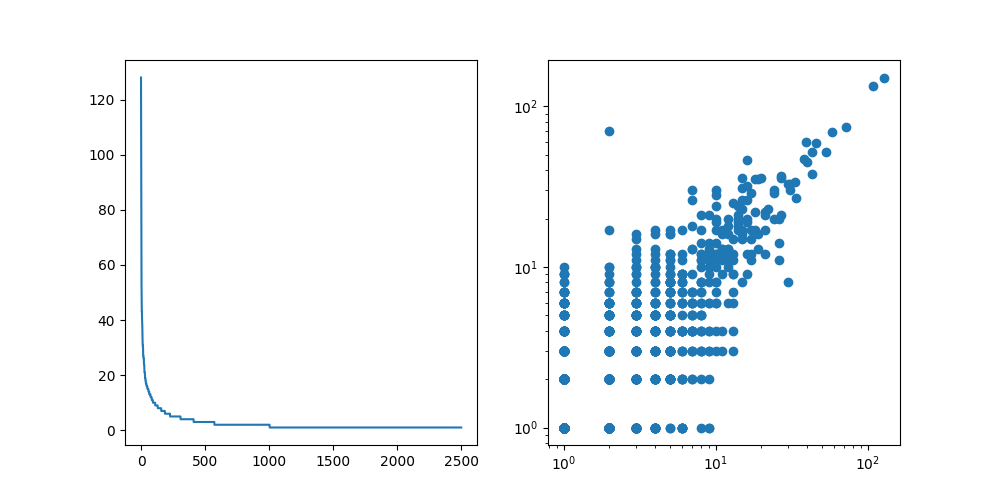
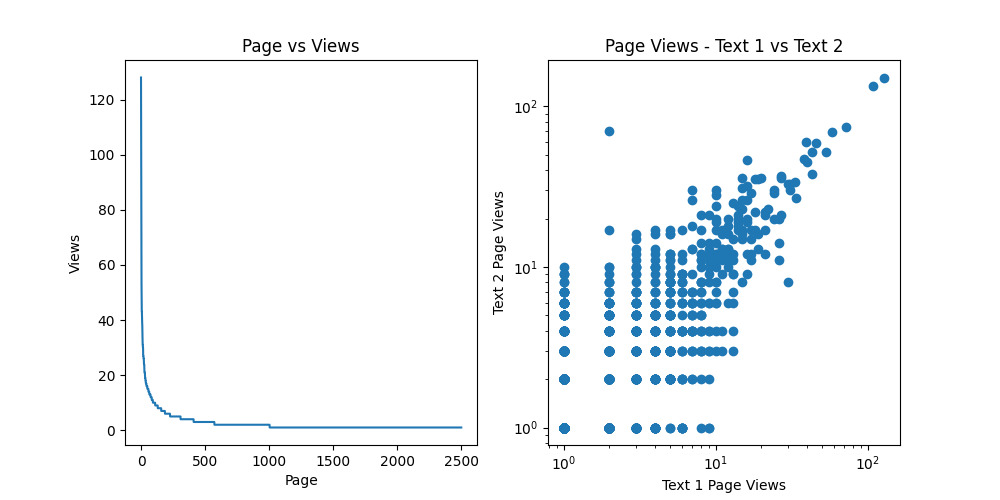
✅Completed Wikipedia Exercise.

diff --git a/Exercises/2/e2/create_plots.py b/Exercises/2/e2/create_plots.py
@@ -25,8 +25,15 @@ df1 = df1.sort_values(by=['views'], ascending=False)
 plt.figure(figsize=(10,5)) #Change the size to something sensible
 plt.subplot(1, 2, 1) #Subplots in 1 row, 2 columns, select the first
 plt.plot(df1['views'].values) #build plot 1
+plt.title("Page vs Views")
+plt.xlabel("Page")
+plt.ylabel("Views")
 plt.subplot(1, 2, 2) #Subplots in 1 row, 2 columns, select the second
 plt.scatter(df3['views'], df3['views2']) #build plot 2
 plt.xscale('log') #Scaling x axis
 plt.yscale('log') #Scaling y axis
+plt.title("Page Views - Text 1 vs Text 2")
+plt.xlabel("Text 1 Page Views")
+plt.ylabel("Text 2 Page Views")
 plt.savefig('wikipedia.png')
+
